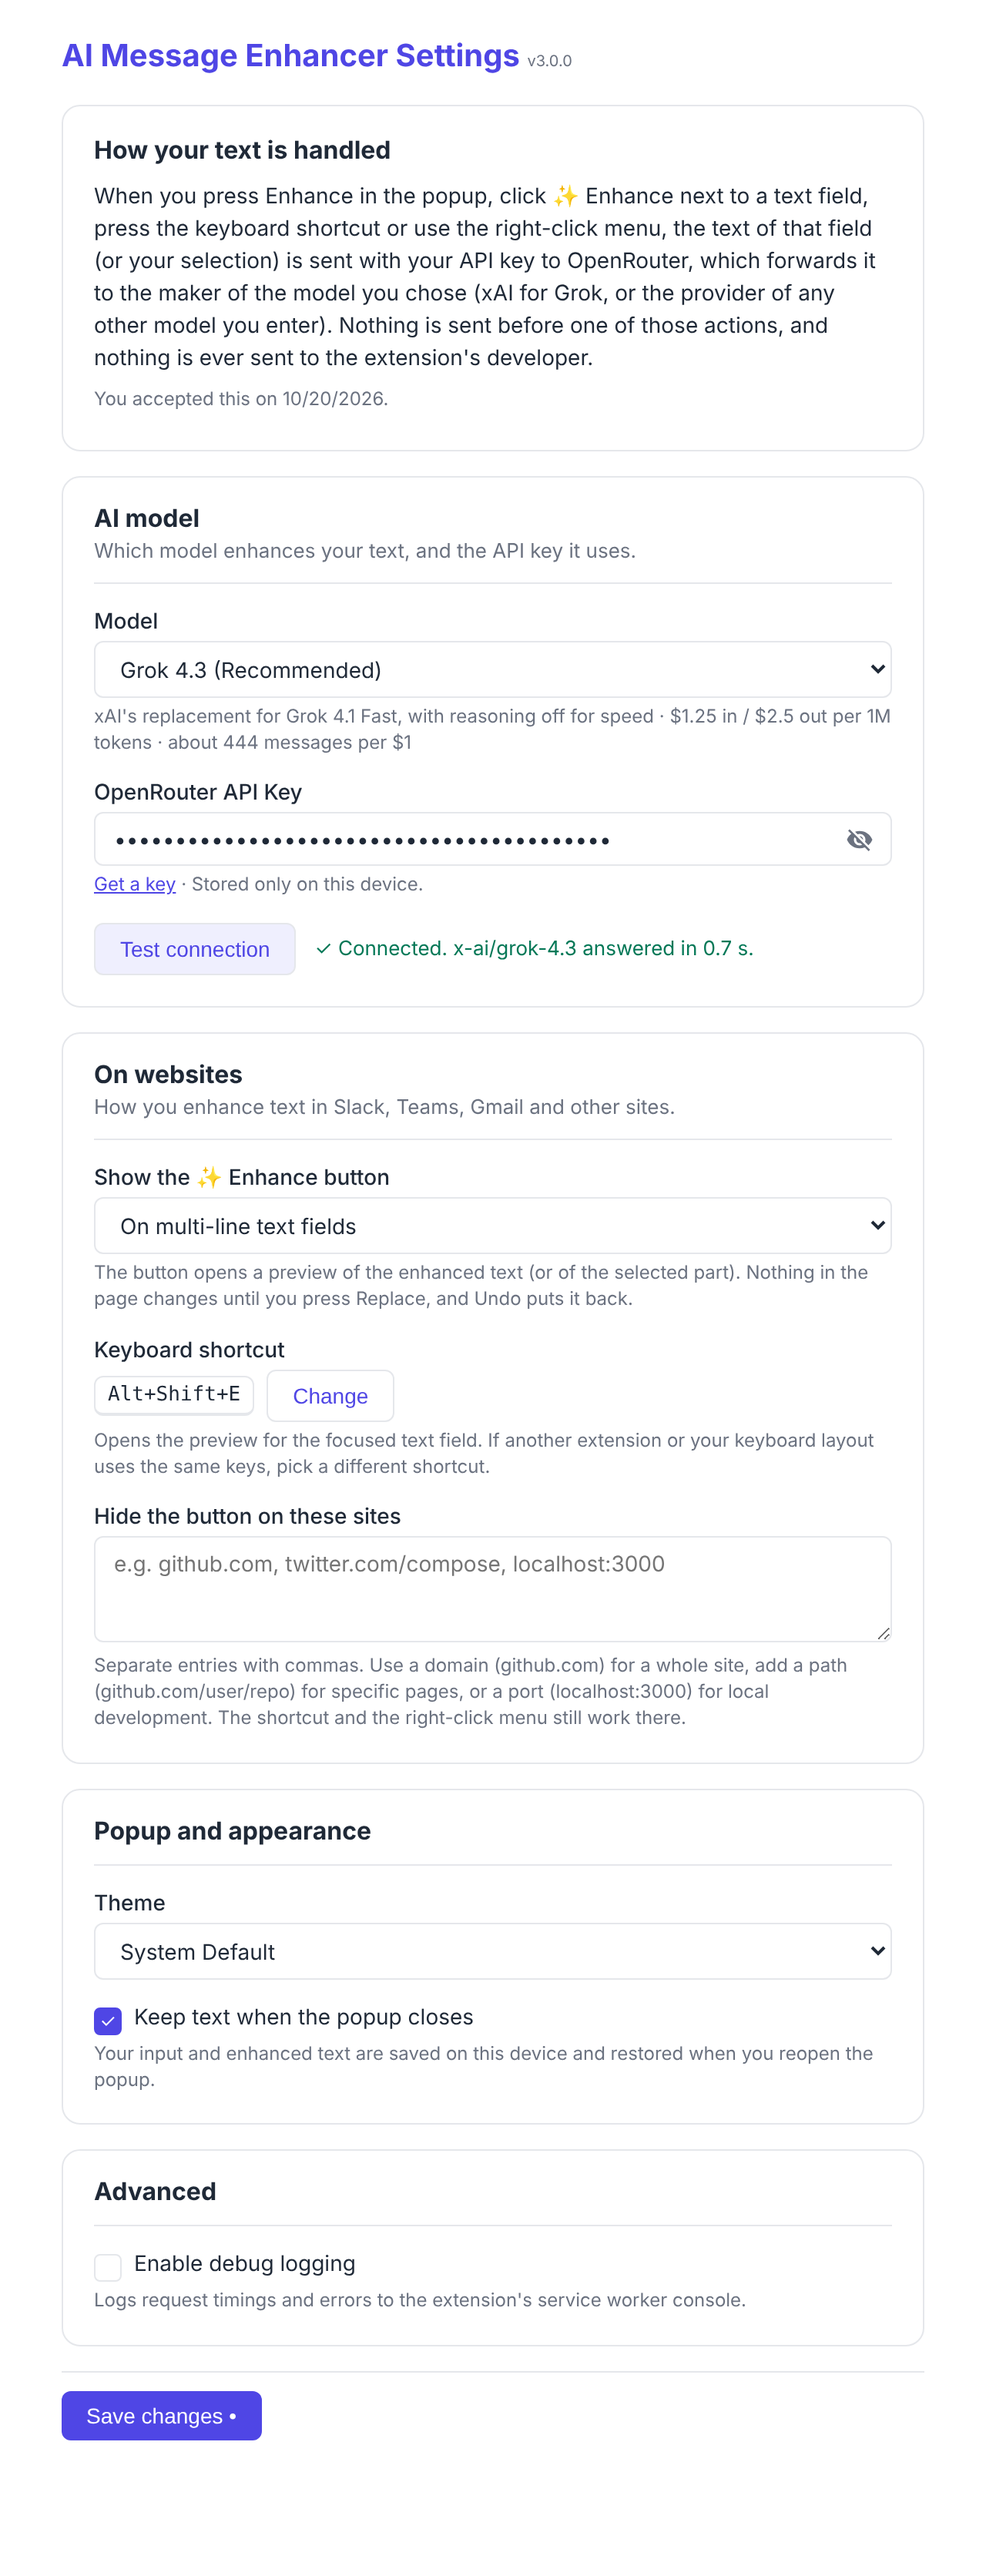
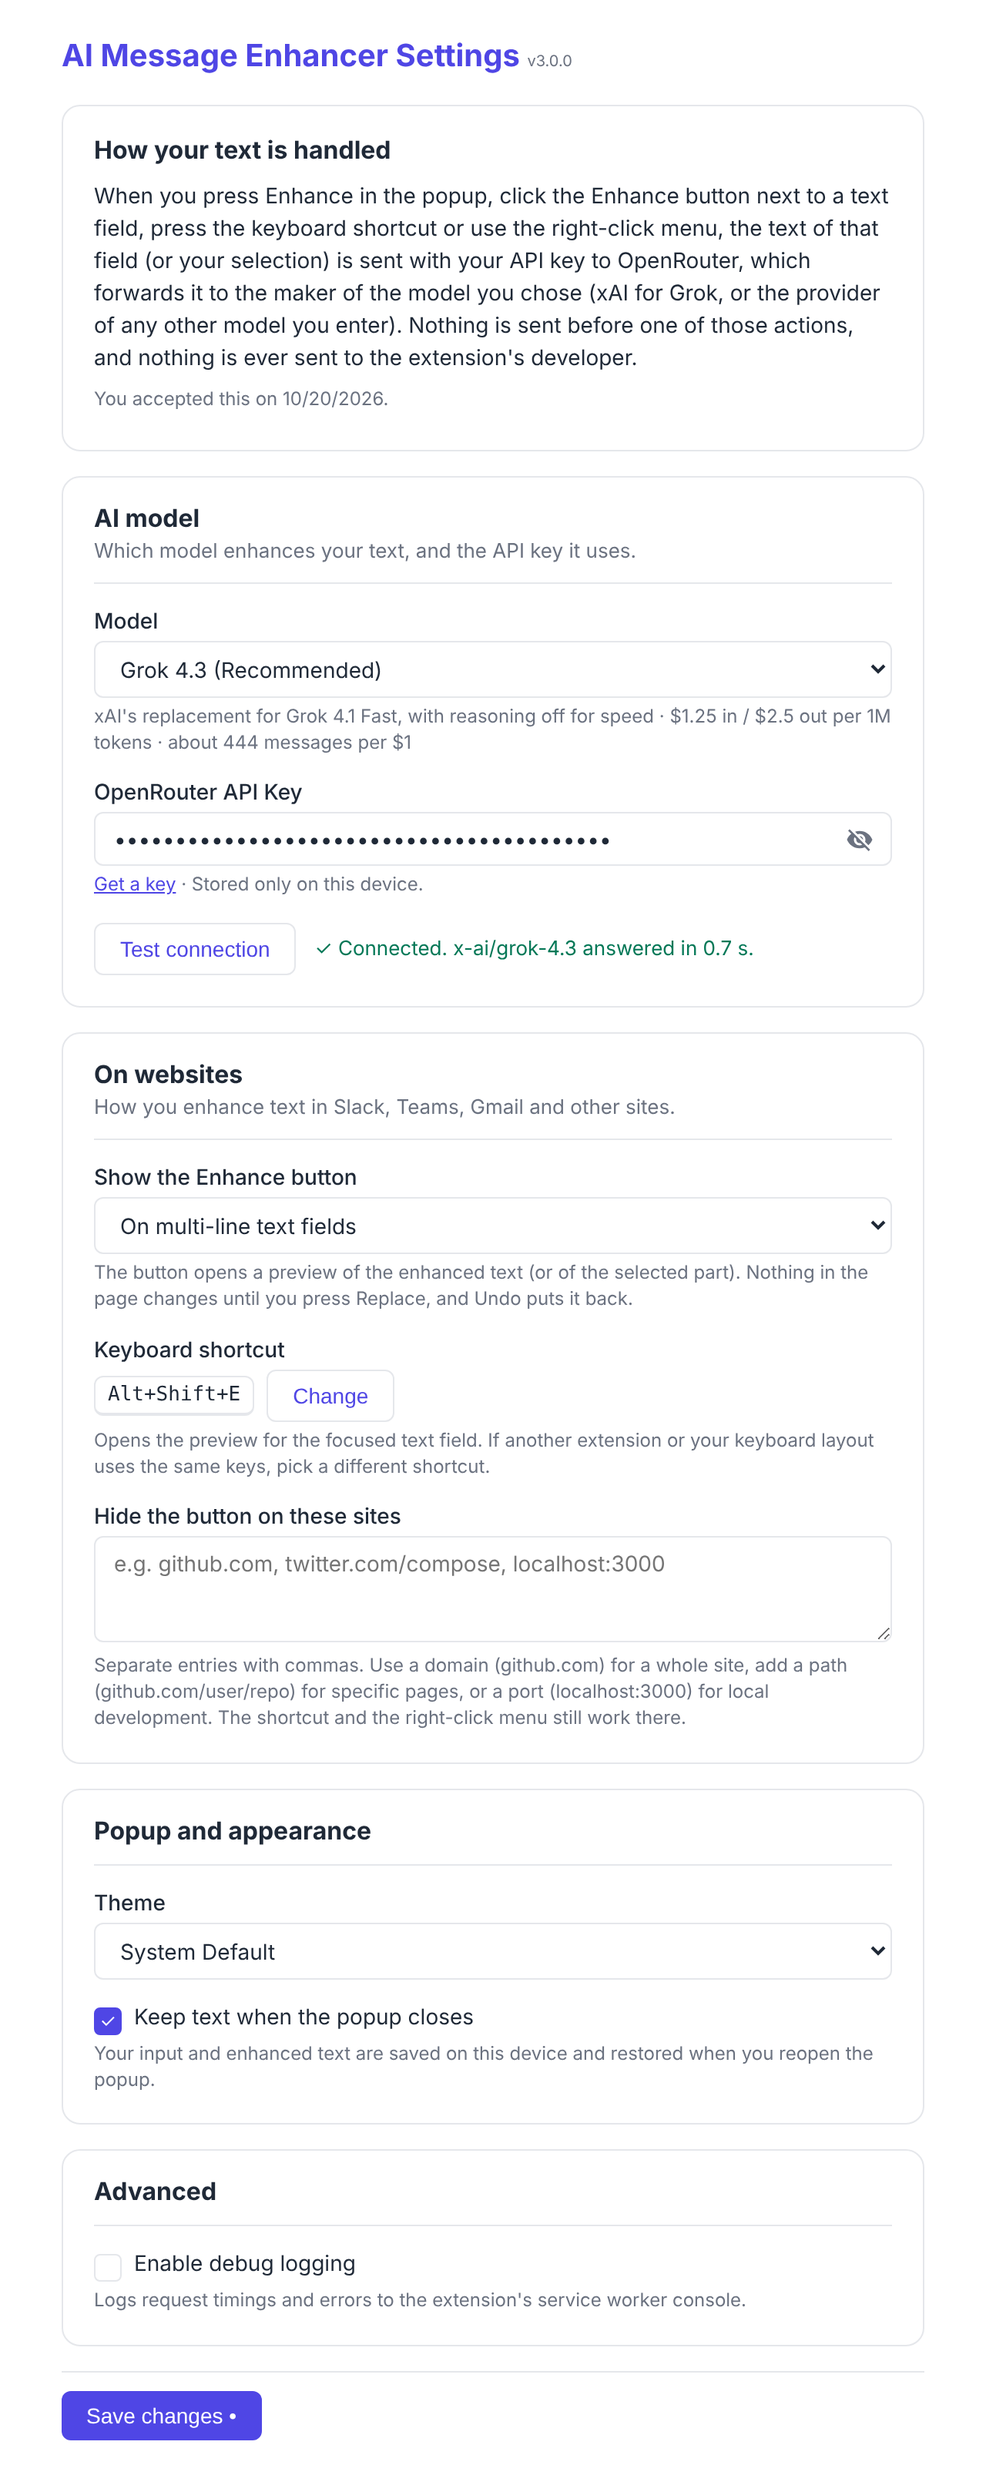
docs: describe the new prompt and button rules and refresh the screenshots

diff --git a/README.md b/README.md
@@ -9,13 +9,15 @@ A Chrome extension that enhances, corrects, and beautifies your text using fast,
 - **Correct grammar and punctuation** mistakes
 - **Improve clarity and readability** of your writing
 - **Beautify and polish** text while preserving your original meaning
+- **Rewrite, not just proofread**: awkward or word-for-word translated phrasing (for example, Portuguese sentence structure in English) becomes what a fluent writer would say. The meaning is kept, not the wording
+- **Plain international English**: idioms, slang and regional expressions are replaced with plain words that non-native readers understand
 - Bring your own OpenRouter key; Grok 4.3 by default, or type any OpenRouter model ID
 - Responses stream in as they are generated
 
 <img src="docs/screenshots/popup.png" width="500" alt="Popup with the original text, tone, message type and translation options, the enhanced text and where the text is sent" />
 
 ### Website Integration
-- **✨ Enhance button** on message boxes across websites like Teams, Slack, Gmail and Outlook. It sits on the field's border and moves out of the way of the site's own buttons
+- **Enhance button** with the extension's icon on message boxes across websites like Teams, Slack, Gmail and Outlook. It appears as you type, sits on the field's border and moves out of the way of the site's own buttons
 - **Review before replacing**: the enhanced text streams into a small preview next to the field. Nothing in the page changes until you press **Replace** (or Ctrl+Enter); **Show changes** highlights what was edited
 - **Tone, type and translation per site**: Neutral or Formal, Message or Email (Gmail and Outlook start as Email), and translate to English, remembered for each site
 - **Selection support**: select part of the text to rewrite only that part and keep @mentions and formatting elsewhere
@@ -38,12 +40,12 @@ A Chrome extension that enhances, corrects, and beautifies your text using fast,
 
 ### Message Customization
 - Multiple tone options:
-  - **Neutral**: Balanced and professional tone (default)
-  - **Formal**: Business-appropriate language with complete sentences
+  - **Neutral**: relaxed and natural, like a clear message to a colleague (default)
+  - **Formal**: polished and professional, with no contractions, but without stiff phrases such as "I hope this message finds you well" or "Kindly"
 - Message type adaptation:
-  - **Message**: Optimized for chat messages, social media, and informal communication
-  - **Email**: Adds proper email formatting and professional etiquette
-- Intelligent tone adjustment when switching between message types
+  - **Message**: chat messages and short notes, kept as compact as you wrote them
+  - **Email**: puts the greeting, paragraphs and sign-off on their own lines; it never adds a greeting, sign-off, subject or signature
+- Greetings, sign-offs, names, job titles, numbers, dates, @mentions, links and emoji codes are kept as written
 
 ### User Interface & Experience
 - Clean, modern interface with intuitive controls
@@ -92,7 +94,7 @@ A Chrome extension that enhances, corrects, and beautifies your text using fast,
 
 ### Website Integration Method
 1. Type your message in a message box (Teams, Slack, Gmail, Outlook or any site)
-2. Click **✨ Enhance** on the field's border, press `Alt+Shift+E`, or right-click and choose "Enhance with AI Message Enhancer…"
+2. Click **Enhance** on the field's border, press `Alt+Shift+E`, or right-click and choose "Enhance with AI Message Enhancer…"
 3. Review the enhanced text in the preview; change the tone, type or translation if you like
 4. Press **Replace** (or Ctrl+Enter) to put it in the field, or Esc to close without changes
 5. Changed your mind? Click **Undo** next to the button or press Ctrl+Z
@@ -119,14 +121,15 @@ If a model refuses to turn reasoning off or to stream, the request is retried wi
 ### User Preferences
 - **Theme Selection**: Choose between System, Light, or Dark mode
 - **Keep Text on Close**: Automatically save and restore your text between sessions
-- **Website Integration**: show the ✨ Enhance button on multi-line fields, only on Slack, Teams, Gmail and Outlook, or never
+- **Website Integration**: show the Enhance button on multi-line fields, only on Slack, Teams, Gmail and Outlook, or never
 - **Keyboard shortcut**: see the current shortcut and change it
-- **Domain Blocking**: hide the ✨ Enhance button on specific domains or pages (e.g., `github.com`, `twitter.com/compose`)
+- **Domain Blocking**: hide the Enhance button on specific domains or pages (e.g., `github.com`, `twitter.com/compose`)
 
 ### Website Integration
-- **Where the button shows**: multi-line text fields and rich editors that are big enough; never on search boxes, single-line inputs or tiny fields. The shortcut and the right-click menu work on any text field
+- **Where the button shows**: multi-line text fields and rich editors that are big enough and visible; never on search boxes, single-line inputs, tiny or hidden fields, or on pickers and widgets that happen to be editable (comboboxes, tag pickers, menus, checkboxes, grid cells, read-only fields). The shortcut and the right-click menu work on any text field
+- **Shows while you type**: the button appears once the field has a few characters, also in editors that write the page themselves instead of firing input events (Teams)
 - **Rich editors**: text goes in through the editor's own paste handling (Slack, Teams, Lexical-based apps), and the result is checked afterwards. If a site refuses it, the text is copied to the clipboard instead and nothing in the field changes
-- **Performance optimized**: no page polling; the script reacts when a text field gets focus and only tracks the field while the button is visible
+- **Performance optimized**: no page polling; the script reacts when a text field gets focus and only watches that field while it has focus
 - Password, one-time-code, card and similar fields are ignored, as are sites whose host looks like banking or login pages
 
 ## Platform Support
@@ -160,12 +163,14 @@ The extension is built with vanilla JavaScript and follows a clean, modular arch
 │   │   ├── options.js         # Settings management
 │   │   ├── background.js      # Service worker: streaming API calls, shortcut, context menu
 │   │   ├── content.js         # Website integration script (in-place enhancement)
+│   │   ├── prompt.js          # Builds the system prompt from instructions.json
 │   │   └── shared.js          # Config/settings helpers shared by the extension pages
 │   └── styles/
 │       ├── common.css         # Shared styles and theme variables
 │       ├── popup.css          # Main interface styles
 │       └── options.css        # Settings page styles
 ├── icons/                     # icon16/32/48/128.png; icon.svg and icon16.svg are their sources
+├── tools/compare-models.mjs   # Compares OpenRouter models on the real prompt (not packaged)
 └── docs/screenshots/          # README images (not packaged)
 ```
 
@@ -191,6 +196,14 @@ The extension is built with vanilla JavaScript and follows a clean, modular arch
 - An OpenRouter API key
 
 ## Version History
+
+### Unreleased
+
+- **Better Rewrites**: The prompt was rewritten. It fixes awkward and word-for-word translated phrasing instead of only typos, uses plain international English, and the formal tone is professional without being ceremonious.
+- **Enhance Button**: It uses the extension's icon, stands out a little more, and appears while you type in Teams instead of only after the field is focused again.
+- **Fewer False Positives**: The button no longer shows on comboboxes, tag pickers, checkboxes, menus, grid cells, single-line, read-only or hidden editable fields, and is no longer skipped on message boxes that offer @mention suggestions.
+- **Preview**: It moves up when its status line or a warning appears, so it no longer covers the Enhance button.
+- **Popup**: More space between the character count and the options.
 
 ### v3.0.0 (Current)
 

diff --git a/PRIVACY.md b/PRIVACY.md
@@ -8,7 +8,7 @@ AI Message Enhancer is a Chrome extension that improves the grammar, clarity and
 ## Data the Extension Handles
 
 ### Text you choose to enhance
-- When you press Enhance in the popup, click ✨ Enhance next to a text field, press the keyboard shortcut or use the right-click menu, the text of that field (or your selection) is sent to the provider of the model you chose, together with your API key.
+- When you press Enhance in the popup, click the Enhance button next to a text field, press the keyboard shortcut or use the right-click menu, the text of that field (or your selection) is sent to the provider of the model you chose, together with your API key.
 - Nothing is sent before one of those actions, and nothing is sent until you accept the data notice shown on install.
 - If "Keep text when extension closes" is on, the popup's input and output text are stored on your device only.
 
@@ -39,10 +39,10 @@ Requests use your own API key, so they are subject to your agreement with that p
 - **storage**: save your settings, API keys and the popup's text.
 - **contextMenus**: add "Enhance with AI Message Enhancer" to the right-click menu of text fields.
 - **scripting** and **activeTab**: when you use the keyboard shortcut or the right-click menu on a tab that was open before the extension was installed or updated, load the extension's script into that tab so the request can be handled.
-- **Content script on all websites** (all frames): show the ✨ button next to the text field you are typing in and replace the text in place when you ask. The script only looks at the focused field on your device to decide whether to show the button; it sends nothing unless you take one of the actions listed above.
+- **Content script on all websites** (all frames): show the Enhance button next to the text field you are typing in and replace the text in place when you ask. The script only looks at the focused field on your device to decide whether to show the button; it sends nothing unless you take one of the actions listed above.
 
 ## Your Control
-- Turn off the ✨ button entirely, or hide it on specific sites, in settings.
+- Turn off the Enhance button entirely, or hide it on specific sites, in settings.
 - Remove all stored data by uninstalling the extension.
 
 ## Children's Privacy

diff --git a/CHROME_STORE_DESCRIPTION.md b/CHROME_STORE_DESCRIPTION.md
@@ -1,13 +1,13 @@
 Fix typos, grammar and tone in any text field with AI. Uses your own OpenRouter API key.
 
-AI Message Enhancer polishes what you write in chats, emails and any other text field. It fixes typos and grammar, improves clarity and adjusts the tone, while keeping your meaning, your vocabulary and your language.
+AI Message Enhancer polishes what you write in chats, emails and any other text field. It fixes typos and grammar, rewrites awkward or word-for-word translated phrasing into clear, plain English that non-native readers understand, and adjusts the tone, while keeping your meaning and your language.
 
-Write your message as usual, then click the sparkles button next to the field, press Alt+Shift+E or right-click and choose "Enhance with AI Message Enhancer". The text is enhanced in place, and you can undo it with one click. You can also paste text into the toolbar popup and copy the result.
+Write your message as usual, then click the Enhance button next to the field, press Alt+Shift+E or right-click and choose "Enhance with AI Message Enhancer". Review the result in a preview, press Replace to put it in the field, and undo it with one click if you change your mind. You can also paste text into the toolbar popup and copy the result.
 
 Key Features:
 - Enhance in place: works in text fields and rich editors on the web, including chat and email apps. Select part of the text to enhance only that part.
 - Undo: one click (or Ctrl+Z) brings back your original text.
-- Tone and format: Neutral or Formal tone, chat message or email format.
+- Tone and format: a relaxed Neutral tone or a professional (not stiff) Formal tone, chat message or email format.
 - Translation: optionally translate your text to English while enhancing it.
 - Your choice of model: Grok 4.3 by default, or any other model available on OpenRouter, with a one-click connection test.
 - Your choice of site: hide the in-page button on sites you choose.
